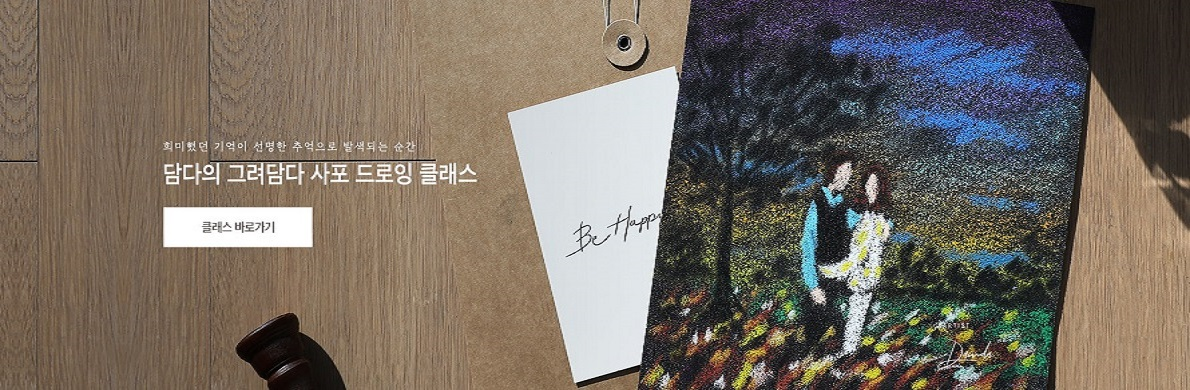
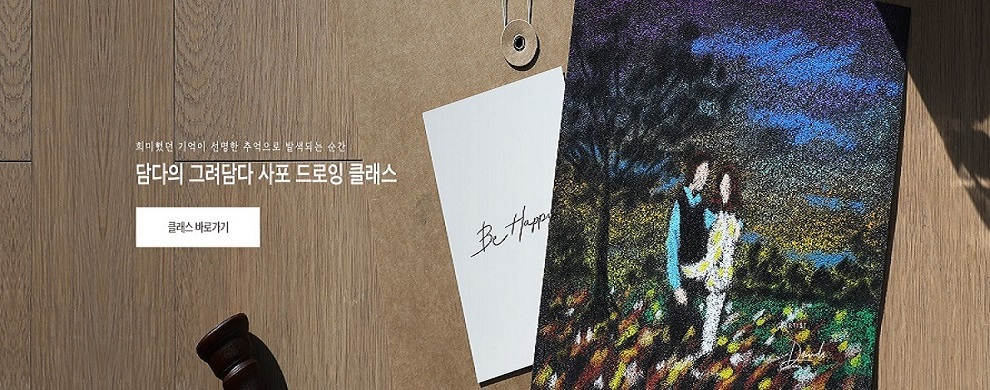
사이드nav 수정, 배너 크기변경(1000)

diff --git a/WebContent/resource/css/main_banner.css b/WebContent/resource/css/main_banner.css
@@ -8,14 +8,14 @@
 
 
 .container1 div {
-    width: 1200px;
+    width: 1000px;
     height: 400px;
     line-height: 400px;
     text-align: center;
     box-shadow: 0 0 10px #666;
     border-radius: 5px;
     position: absolute;
-    left: 26.5%;/* 34%; */
+    left: 32%;/* 26.5%;34%; */
     top: 120px;
     margin-left: -150px;
     color: #000;
